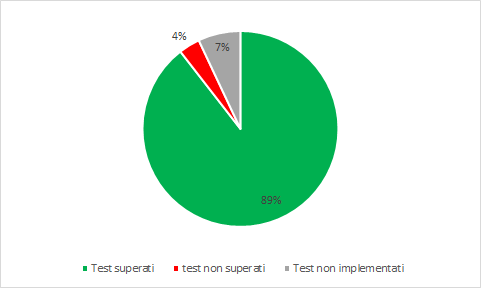
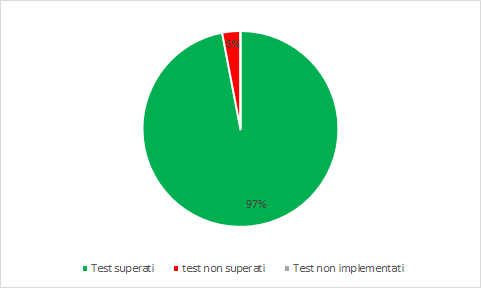
[PdQ] TS superati

Changed region(s): [[0.343, 0.0938, 0.499, 0.4375], [0.499, 0.6562, 0.5925, 0.7188]]

diff --git a/RA/PianoDiQualifica/Res/Sezioni/SpecificaDeiTest.tex b/RA/PianoDiQualifica/Res/Sezioni/SpecificaDeiTest.tex
@@ -257,7 +257,7 @@ Per produrre software di qualità, il gruppo SWEefty definirà dei test per assi
     	TS0F1.1.1&Vene verificato che sia possibile visualizzare i server nella mappa.&\textcolor{green}{Superato} \\ \hline
     	TS0F1.1.2&Viene verificato che sia possibile visualizzare nella mappa i database dell'applicazione monitorata.&\textcolor{green}{Superato} \\ \hline
     	TS1F1.1.3&Viene verificato che sia possibile visualizzare nella mappa i server cluster dell'applicazione monitorata.&\textcolor{red}{Non Superato} \\ \hline
-    	TS1F1.2&Viene verificato che ogni componente dell'applicazione venga visualizzato in modo differente.&Non implementato \\ \hline
+    	TS1F1.2&Viene verificato che ogni componente dell'applicazione venga visualizzato in modo differente.& \textcolor{green}{Superato} \\ \hline
     	TS1F1.2.1&Viene verificato che i server siano rappresentati sotto forma di cerchi.&\textcolor{green}{Superato} \\ \hline
     	TS1F1.2.2&Viene verificato che i database siano rappresentati sotto forma di cilindri.&\textcolor{green}{Superato} \\ \hline
     	TS1F1.2.3&Viene verificato che sia possibile visualizzare il numero di server che compongono un cluster.&\textcolor{red}{Non Superato} \\ \hline
@@ -312,7 +312,7 @@ Per produrre software di qualità, il gruppo SWEefty definirà dei test per assi
     	TS2F3.2.1&Viene verificato che sia possibile nascondere le sottochiamate eseguite dal metodo. &\textcolor{green}{Superato} \\ \hline
     	TS1F3.2.2&Viene verificato che sia possibile visualizzare le sottochiamate eseguite dal metodo. &\textcolor{green}{Superato} \\ \hline
     	TS1F3.3&Viene verificato che Ogni livello di annidamento delle sottochiamate nel call tree deve avere essere mostrato con un livello di indentazione rispetto al precedente. &\textcolor{green}{Superato} \\ \hline
-    	TS1F3.4&Viene verificato che al momento del caricamento tutte le sottochiamate di un call tree devono essere visualizzate.&Non implementato\\ \hline
+    	TS1F3.4&Viene verificato che al momento del caricamento tutte le sottochiamate di un call tree devono essere visualizzate.& \textcolor{green}{Superato}\\ \hline
     	TS1F4&Viene verificato che sia possibile visualizzare la lista delle query eseguite in una singola trace. &\textcolor{green}{Superato} \\ \hline
     	TS1F4.1&Viene verificato che sia possibile visualizzare dei dettagli riguardati ogni singola query.&\textcolor{green}{Superato} \\ \hline
     	TS1F4.1.1&Viene verificato che sia possibile visualizzare ogni voce nella lista delle query associata ad un numero univoco incrementale. &\textcolor{green}{Superato} \\ \hline
@@ -329,10 +329,10 @@ Per produrre software di qualità, il gruppo SWEefty definirà dei test per assi
     	TS1F4.2.2.2&Viene verificato che sia possibile riordinare la lista delle query di una singola trace in base al tempo di esecuzione in modo decrescente. &\textcolor{green}{Superato} \\ \hline
     	TS1F4.3&Viene verificato che la lista delle query di una singola trace sia caricata in ordine decrescente rispetto all'ordine cronologico di esecuzione. &\textcolor{green}{Superato} \\ \hline
     	
-    	TS0V3&Viene verificato che il prodotto sia compatibile con il browser Google Chrome v. 55.x.  &Non implementato \\ \hline
-    	TS0V4&Viene verificato che il prodotto sia compatibile con il browser Mozilla Firefix v. 50.x. &Non implementato \\ \hline
-    	TS0V5&Viene verificato che il prodotto sia compatibile con il browser Safari v. 10.x.&Non implementato \\ \hline
-    	TS0V6&Viene verificato che il prodotto sia compatibile con il browser Internet Explorer v. 11.x.&Non implementato \\ \hline
+    	TS0V3&Viene verificato che il prodotto sia compatibile con il browser Google Chrome v. 55.x.  & \textcolor{green}{Superato} \\ \hline
+    	TS0V4&Viene verificato che il prodotto sia compatibile con il browser Mozilla Firefix v. 50.x. & \textcolor{green}{Superato} \\ \hline
+    	TS0V5&Viene verificato che il prodotto sia compatibile con il browser Safari v. 10.x.& \textcolor{green}{Superato} \\ \hline
+    	TS0V6&Viene verificato che il prodotto sia compatibile con il browser Internet Explorer v. 11.x.& \textcolor{green}{Superato} \\ \hline
     \end{longtable}
 
 
